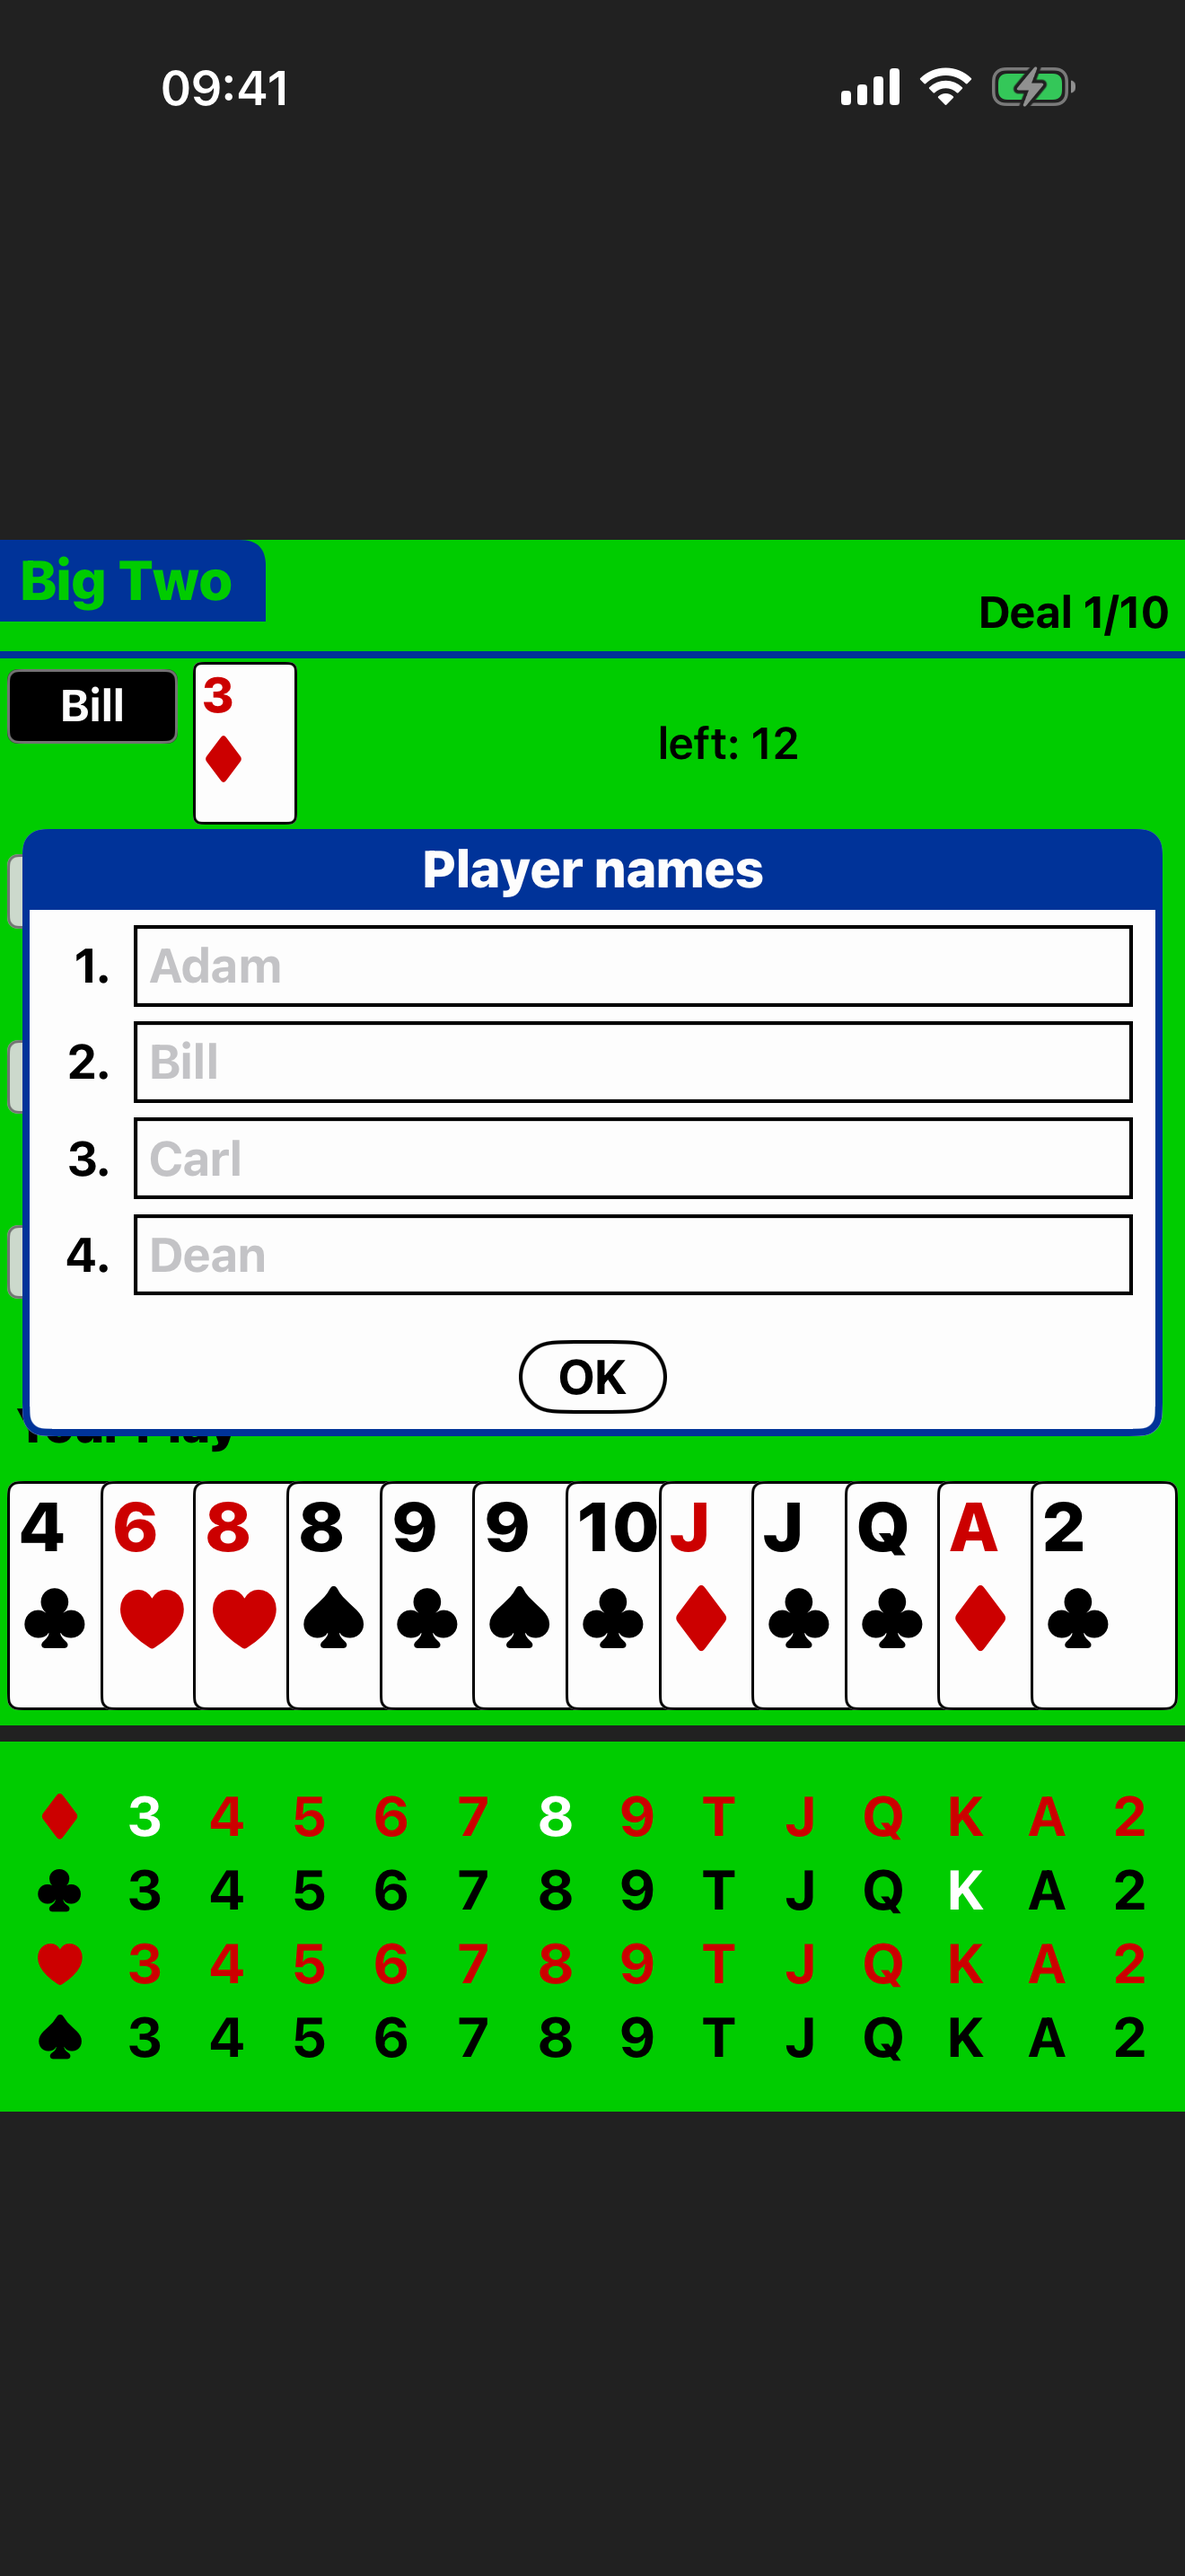
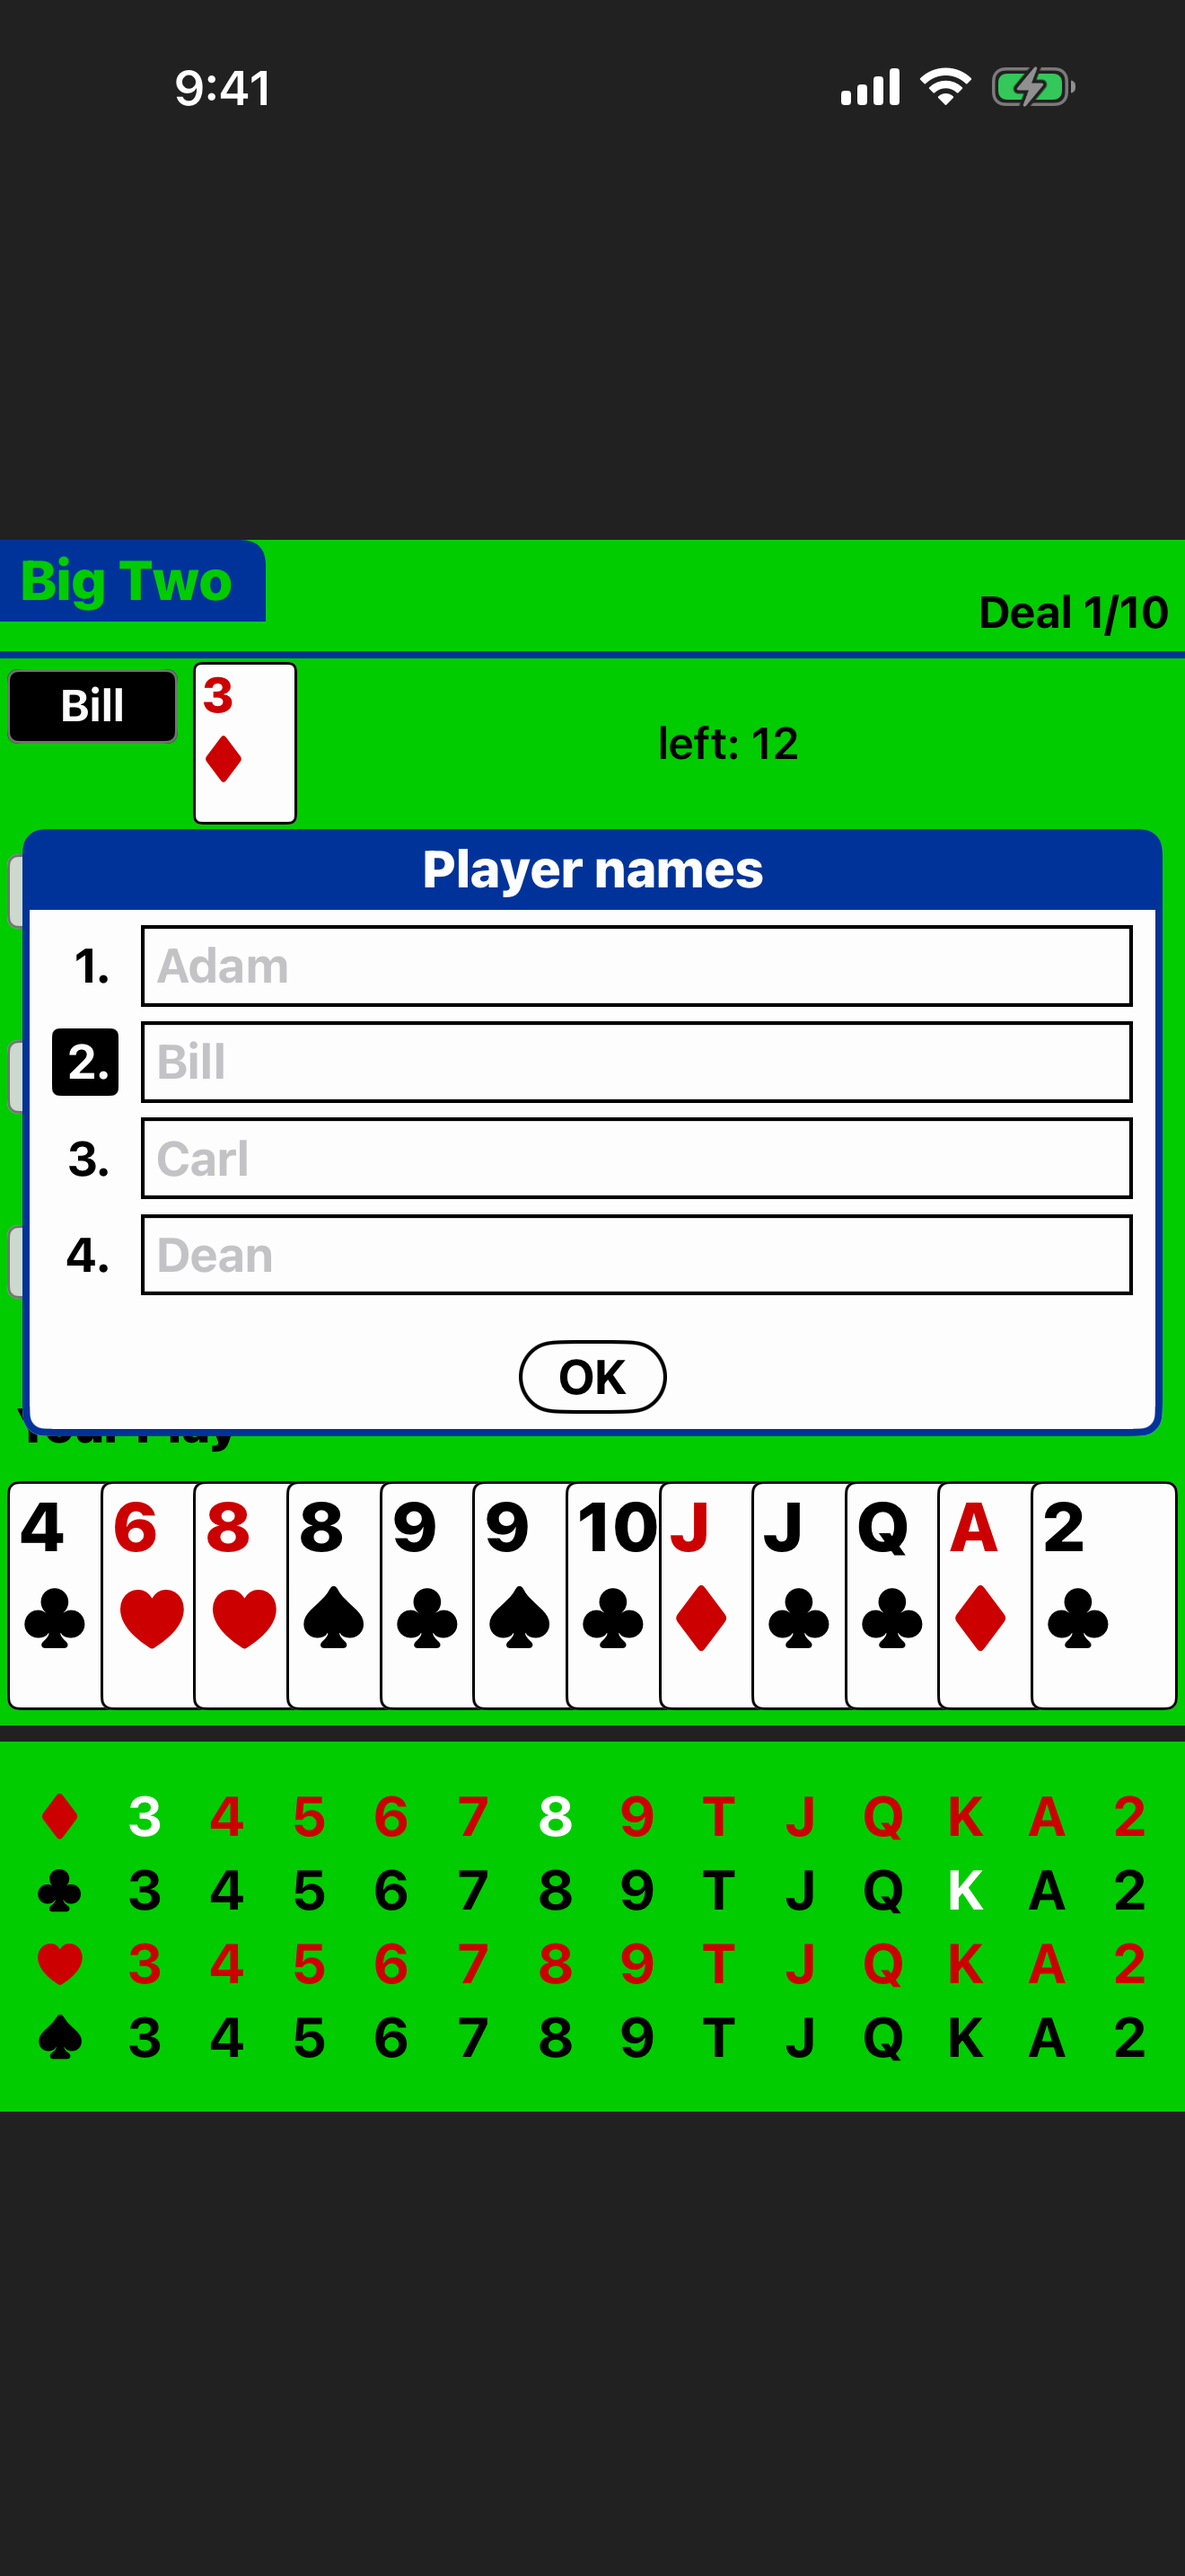
Mark the human seat in the Player names dialog
Seat 2 is the person holding the phone; its row number is drawn inverted
(white on black), the same "this one" mark the table's name button uses for
the player to move — no new glyph, no wording change.

- NamesDialogView takes humanSeat; GameView passes game.humanSeat
- VoiceOver reads "Player 2, you" (new key in all seven locale tables)
- testNames asserts names_you's label; proved it fails with humanSeat: 0
- Screen tour re-extracted (06_names shows the marker)

Changed region(s): [[0.0311, 0.3414, 0.2485, 0.4965], [0.1242, 0.031, 0.2485, 0.0621]]

diff --git a/BigTwoApp/Views/NamesDialogView.swift b/BigTwoApp/Views/NamesDialogView.swift
@@ -8,6 +8,9 @@ import SwiftUI
 struct NamesDialogView: View {
   @Binding var names: [String]
   let placeholders: [String]
+  /// Seat that belongs to the person holding the phone — its number is inverted,
+  /// the same "this one is you" mark the table's name button uses.
+  var humanSeat: Int?
   let onOK: () -> Void
 
   @Environment(\.palmUnit) private var u
@@ -17,9 +20,7 @@ struct NamesDialogView: View {
       VStack(alignment: .leading, spacing: 4 * u) {
         ForEach(0..<4, id: \.self) { i in
           HStack(spacing: 6 * u) {
-            Text("\(i + 1).")
-              .font(.palm(13 * u))
-              .frame(width: 16 * u, alignment: .trailing)
+            number(i)
             TextField(placeholder(i), text: binding(i))
               .font(.palm(13 * u))
               .disableAutocorrection(true)
@@ -39,6 +40,18 @@ struct NamesDialogView: View {
     }
   }
 
+  private func number(_ i: Int) -> some View {
+    let you = i == humanSeat
+    return Text("\(i + 1).")
+      .font(.palm(13 * u))
+      .foregroundColor(you ? .cardFace : .ink)
+      .padding(.trailing, 2 * u)
+      .frame(width: 18 * u, height: 18 * u, alignment: .trailing)
+      .background(RoundedRectangle(cornerRadius: 2 * u).fill(you ? Color.ink : Color.clear))
+      .accessibilityLabel(you ? L10n.string("Player %d, you", i + 1) : "\(i + 1)")
+      .accessibilityIdentifier(you ? "names_you" : "names_seat_\(i)")
+  }
+
   private func placeholder(_ i: Int) -> String {
     i < placeholders.count ? placeholders[i] : PlayerNames.keys[i]
   }
@@ -55,7 +68,8 @@ struct NamesDialogView: View {
 }
 
 #Preview {
-  NamesDialogView(names: .constant(["", "", "", ""]), placeholders: PlayerNames.keys, onOK: {})
+  NamesDialogView(names: .constant(["", "", "", ""]), placeholders: PlayerNames.keys,
+                  humanSeat: 1, onOK: {})
     .padding()
     .background(Color.felt)
 }

diff --git a/BigTwoUITests/GameUITests.swift b/BigTwoUITests/GameUITests.swift
@@ -190,6 +190,10 @@ final class GameUITests: XCTestCase {
     let field = app.element("pref_name_1")
     XCTAssertTrue(field.waitForExistence(timeout: 5))
     XCTAssertTrue(app.buttons["names_ok"].exists)
+    // Row 2 is the human seat: its number is inverted and says so to VoiceOver.
+    XCTAssertTrue(app.element("names_you").exists)
+    XCTAssertEqual(app.element("names_you").label, "Player 2, you")
+    XCTAssertTrue(app.element("names_seat_0").exists)
     field.tap()
     field.typeText("Mei")
     // Keyboard covers the square's OK; tap the form title to dismiss it.

diff --git a/BigTwoApp/Views/GameView.swift b/BigTwoApp/Views/GameView.swift
@@ -150,7 +150,8 @@ struct GameView: View {
         }
       case .names:
         modal(u) {
-          NamesDialogView(names: $nameDraft, placeholders: PlayerNames.defaults) {
+          NamesDialogView(names: $nameDraft, placeholders: PlayerNames.defaults,
+                          humanSeat: game.humanSeat) {
             game.applyNames(nameDraft, defaults: PlayerNames.defaults)
             self.dialog = nil
           }

diff --git a/docs/test_runs.md b/docs/test_runs.md
@@ -44,3 +44,5 @@ evidence that a test can fail; they stay in the log.
 - 2026-09-19 23:12 — BigTwoKit ✓ 63/63 (8 PlayerName tests; `resolvedNames` nonisolated). iOS (iPhone 17 Pro Max, 26.3) ✓ 1/1 `testNames_customNameShowsOnTheTableAndSurvivesARelaunch`
 - 2026-09-19 23:18 — iOS (iPhone 17 Pro Max, 26.3) ✓ 1/1 testScreenTour (+ Names; 06_names, 07_about, 08_score, 09_final_score). First run crashed after names_ok; waitForNonExistence then ✓.
 - 2026-09-19 23:22 — iOS (iPhone 17 Pro Max, 26.3) ✓ 2/2 testAbout_showsSharedKit + testScreenTour (About has share/rate/report/X, no SharedKit button)
+- 2026-09-20 12:37 — iOS (iPhone 17 Pro Max, 26.3) ✓ 2/2 testNames + testScreenTour (human seat marker: row 2's number inverted). Screenshots re-extracted
+- 2026-09-20 12:44 — iOS ✗ 0/1 deliberate (testNames with `humanSeat: 0` — label read "Player 1, you"), then restored ✓. BigTwoKit ✓ 63/63

diff --git a/docs/pr_learnings.md b/docs/pr_learnings.md
@@ -23,6 +23,8 @@ and the evidence.
 
 **`resolvedNames` 要 `nonisolated`。** `BigTwoGame` 是 `@MainActor`，純函式若跟著隔離，Swift 6 的 `#expect(BigTwoGame.resolvedNames([]))` 編不過。Kit 測試本來就沒跑過。
 
+**人類座位在改名對話框要看得出來。** 座位 2 是玩家（`humanSeat`），編號用反白（黑底白字）標示 — 沿用桌面上「該誰出牌就反白」的同一套語彙，不加新圖示。VoiceOver 讀 `Player %d, you`（7 個語系都要補 key），UI 測試斷言 `names_you` 的 label 是 `Player 2, you`；把 `humanSeat` 寫死成 0 會讀到 `Player 1, you`，測試確實會紅。
+
 ---
 
 ## l10n-big2-players — 中／印／菲／馬／越，覆蓋多數鋤大弟玩家
